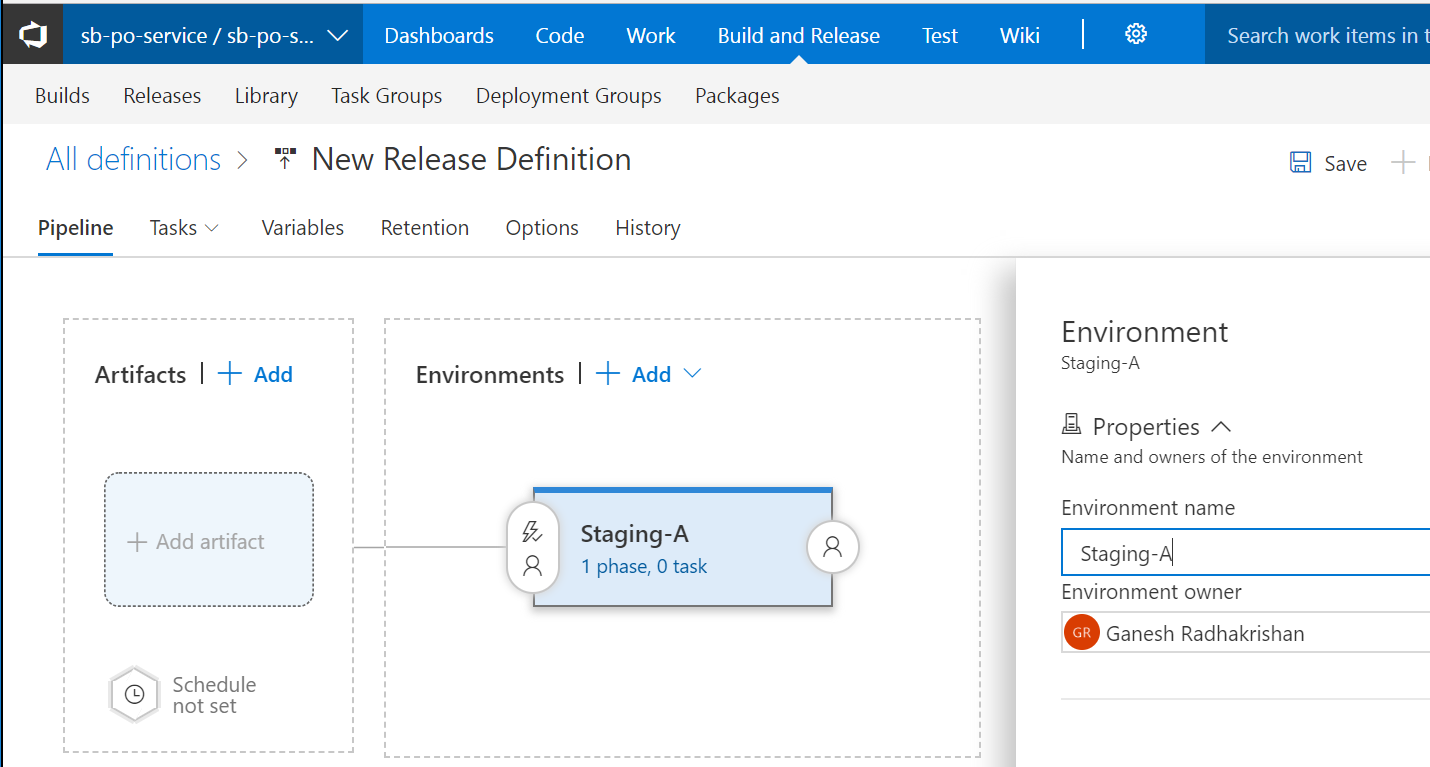
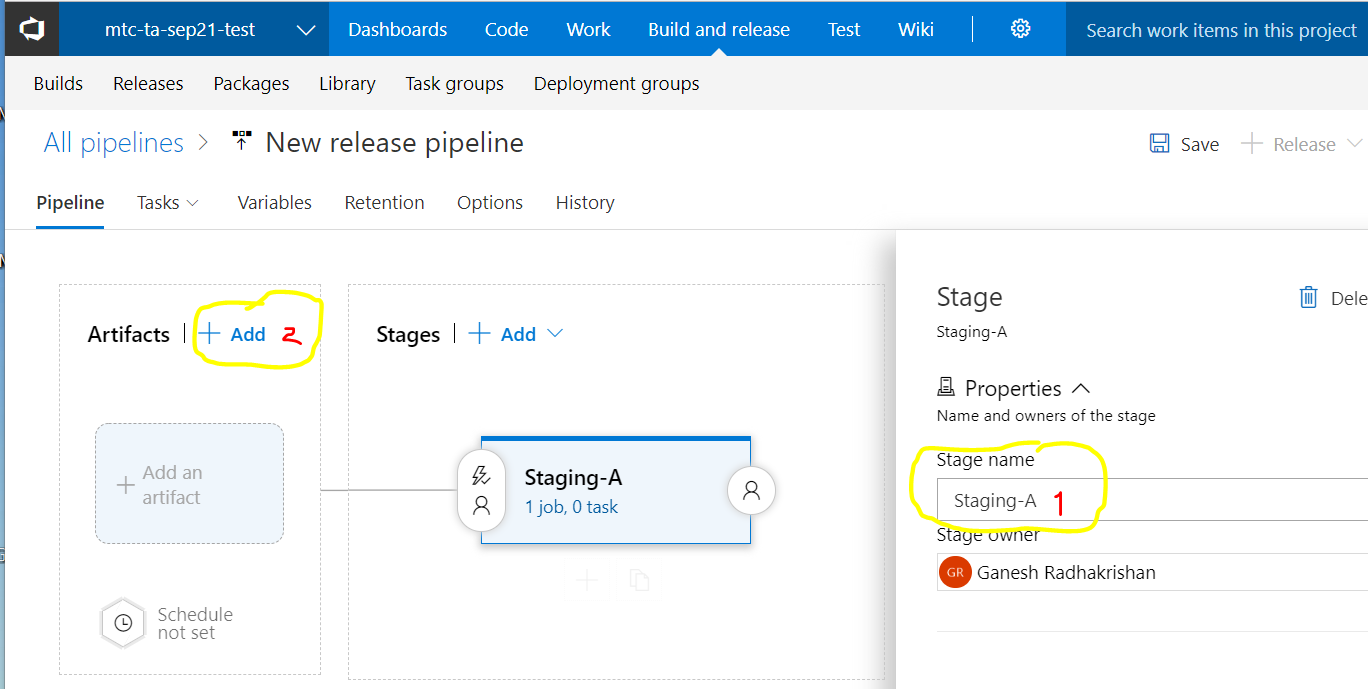
Updated Readme doc, images and app-update-deploy.yaml script

diff --git a/README.md b/README.md
@@ -141,7 +141,7 @@ Alternatively, if you prefer you can use SSH based authentication to connect to 
 
     In the next page, make sure to **copy and store** the PAT (token) into a file.  Keep in mind, you will not be able to retrieve this token again.  Incase you happen to lose or misplace the token, you will need to generate a new PAT and use it to reconfigure the VSTS build agent.  So save this PAT (token) to a file.
 
-9.  In the Linux VM command window, use the command below to start the VSTS build container.  Refer to the table below to set the build container parameter values correctly.
+9.  In the Linux VM terminal window, use the command below to start the VSTS build container.  Refer to the table below to set the build container parameter values correctly.
 
     Parameter | Value
     --------- | -----
@@ -506,91 +506,93 @@ Congrats!  You have just built and deployed a Java Springboot microservice on Az
 If you would like to learn how to implement **Continuous Deployment** in VSTS, continue with the next steps.  We will define a **Release Pipeline** in VSTS to perform automated application deployments next.
 
 ### E] Create a simple *Release Pipeline* in VSTS
-1.  Using a web browser, login to your VSTS account (if you haven't already) and select your project which you created in Step [C]. Click on *Build and Release* menu on the top panel and select *Releases*.  Next, click on the *+* icon on the *Releases* tab and select *Create release definition*.
+1.  Using a web browser, login to your VSTS account (if you haven't already) and select your project which you created in Step [C]. Click on *Build and Release* menu on the top panel and select *Releases*.  Next, click on *+ New pipeline*.
 
-![alt tag](./images/E-02.PNG)
+    ![alt tag](./images/E-02.PNG)
 
-In the *Select a Template* page, click on *Empty process*.  See screenshot below.
+    In the *Select a Template* page, click on *Empty job*.  See screenshot below.
 
-![alt tag](./images/E-03.PNG)
+    ![alt tag](./images/E-03.PNG)
 
-In the *Environment* page, specify *Staging-A* as the name for the environment.  Then click on *+Add* besides *Artifacts* (under *Pipeline* tab).
+    In the *Stage* page, specify *Staging-A* as the name for the environment.  Then click on *+Add* besides *Artifacts* (under *Pipeline* tab).
 
-![alt tag](./images/E-04.PNG)
+    ![alt tag](./images/E-04.PNG)
 
-In the *Add artifact* page, select *Build* for **Source type**, select your VSTS project from the **Project** drop down menu and select your *Build definition* in the drop down menu for **Source (Build definition)**.  Leave the remaining field values as is and click **Add**.  See screenshot below. 
+    In the *Add artifact* page, select *Build* for **Source type**, select your VSTS project from the **Project** drop down menu and select your *Build definition* in the drop down menu for **Source (Build definition)**.  Leave the remaining field values as is and click **Add**.  See screenshot below. 
 
-![alt tag](./images/E-05.PNG)
+    ![alt tag](./images/E-05.PNG)
 
-In the *Pipeline* tab, click on the *trigger* icon (highlighted in yellow) and enable **Continuous deployment trigger**.  See screenshot below.
+    In the *Pipeline* tab, click on the *trigger* icon (highlighted in yellow) and enable **Continuous deployment trigger**.  See screenshot below.
 
-![alt tag](./images/E-06.PNG)
+    ![alt tag](./images/E-06.PNG)
 
-Next, click on *1 phase, 0 task* in the **Environments** box under environment *Staging-A*.  Click on *Agent phase* under the *Tasks* tab and make sure **Agent queue** value is set to *Hosted VS2017*.  Leave the remaining field values as is.  See screenshot below.
+    Next, click on *1 job, 0 task* in the **Stages** box under environment *Staging-A*.  Click on *Agent job* under the *Tasks* tab and make sure **Agent queue** value is set to *Hosted VS2017*.  Leave the remaining field values as is.  See screenshots below.
 
-![alt tag](./images/E-07.PNG)
+    ![alt tag](./images/E-07.PNG)
 
-Recall that we had installed a **Tokenizer utility** extension in VSTS in Step [C].  We will now use this extension to update the container image *Tag value* in Kubernetes deployment manifest file *./k8s-scripts/app-update-deploy.yaml*.  Open/View the deployment manifest file in an editor (vi) and search for variable **__Build.BuildNumber__**.  When we re-run (execute) the *Build* pipeline, it will generate a new tag (Build number) for the *po-service* container image.  The *Tokenizer* extension will then substitute the latest tag value in the substitution variable.
+    ![alt tag](./images/E-071.PNG)
 
-Click on the ** + ** symbol beside **Agent phase** and search for text **Tokenize with** in the *Search* text box (besides **Add tasks**). Click on **Add**.  See screenshot below.
+    Recall that we had installed a **Tokenizer utility** extension in VSTS in Step [C].  We will now use this extension to update the container image *Tag value* in Kubernetes deployment manifest file *./k8s-scripts/app-update-deploy.yaml*.  Open/View the deployment manifest file in an editor (vi) and search for variable **__Build.BuildNumber__**.  When we re-run (execute) the *Build* pipeline, it will generate a new tag (Build number) for the *po-service* container image.  The *Tokenizer* extension will then substitute the latest tag value in the substitution variable.
 
-![alt tag](./images/E-08.PNG)
+    Click on the ** + ** symbol beside **Agent job** and search for text **Tokenize with** in the *Search* text box (besides **Add tasks**). Click on **Add**.  See screenshot below.
 
-Click on the **Tokenizer** task and click on the ellipsis (...) below field **Source filename**.  In the **Select File Or Folder** window, select the deployment manifest file from the respective folder as shown in the screenshots below. Click **OK**.
+    ![alt tag](./images/E-08.PNG)
 
-![alt tag](./images/E-09.PNG)
+    Click on the **Tokenizer** task and click on the ellipsis (...) besides field **Source filename**.  In the **Select File Or Folder** window, select the deployment manifest file from the respective folder as shown in the screenshots below. Click **OK**.
 
-![alt tag](./images/E-10.PNG)
+    ![alt tag](./images/E-09.PNG)
 
-Again, click on the ** + ** symbol beside **Agent phase** and search for text **Deploy to Kubernetes**, select this extension and click **Add*.  See screenshot below.
+    ![alt tag](./images/E-10.PNG)
 
-![alt tag](./images/E-11.PNG)
+    Again, click on the ** + ** symbol beside **Agent job** and search for text **Deploy to Kubernetes**, select this extension and click **Add*.  See screenshot below.
 
-Click on the **Deploy to Kubernetes** task on the left panel and fill out the details (numbered) as shown in the screenshot below.  This task will **apply** (update) the changes (image tag) to the kubernetes **Deployment** object on the Azure AKS cluster and do a **Rolling** deployment for the **po-service** microservice application.
+    ![alt tag](./images/E-11.PNG)
 
-If you do not see your Kubernetes Cluster in the drop down menu, you will need to add it.  You can select `+NEW` and then fill out the information.  You will need the API Address, which you can find if you view your Kubernetes Cluster within the portal.  It will look similar to `akslab-ae1a2677.hcp.centralus.azmk8s.io`  Be sure to add `https://` before it when pasting it into VSTS for `Server URL`.
+    Click on the **Deploy to Kubernetes** task on the left panel and fill out the details (numbered) as shown in the screenshot below.  This task will **apply** (update) the changes (image tag) to the kubernetes **Deployment** object on the Azure AKS cluster and do a **Rolling** deployment for the **po-service** microservice application.
 
-Additionally you will need your Kuberentes Configuration file from earlier.  Simply copy the contents in full to the `KubeConfig` section.
+    If you do not see your Kubernetes Cluster in the drop down menu, you will need to add it.  You can select `+NEW` and then fill out the information.  You will need the API Address, which you can find if you view your Kubernetes Cluster within the portal.  It will look similar to `akslab-ae1a2677.hcp.centralus.azmk8s.io`  Be sure to add `https://` before it when pasting it into VSTS for `Server URL`.
 
-![alt tag](./images/E-12.PNG)
+    Additionally you will need your Kuberentes Configuration file from earlier.  Simply copy the contents in full to the `KubeConfig` section.
 
-Expand the **Secrets** field panel and fill in the values as shown in the screenshot below.  Choose the correct value for **Azure subscription**.  See screenshot below.
+    ![alt tag](./images/E-12.PNG)
 
-![alt tag](./images/E-13.PNG)
+    Expand the **Secrets** field panel and fill in the values as shown in the screenshot below.  Choose the correct value for **Azure subscription**.  See screenshot below.
 
-Change the name of the release pipeline to **cd-po-service** and click **Save** on the top panel.  Provide a comment and click **OK**.
+    ![alt tag](./images/E-13.PNG)
 
-![alt tag](./images/E-14.PNG)
+    Change the name of the release pipeline to **cd-po-service** and click **Save** on the top panel.  Provide a comment and click **OK**.
 
-We have now finished defining the **Release pipeline**.  This pipeline will in turn be triggered whenever the build pipeline completes Ok.
+    ![alt tag](./images/E-14.PNG)
+
+    We have now finished defining the **Release pipeline**.  This pipeline will in turn be triggered whenever the build pipeline completes Ok.
 
 2.  Edit the build pipeline and click on the **Triggers** tab.  See screenshot below.
 
-![alt tag](./images/E-15.PNG)
+    ![alt tag](./images/E-15.PNG)
 
-Click the checkbox for both **Enable continuous integration** and **Batch changes while a build is in progress**.  Leave other fields as is.  Click on **Save & queue** menu and select the **Save** option.
+    Click the checkbox for both **Enable continuous integration** and **Batch changes while a build is in progress**.  Leave other fields as is.  Click on **Save & queue** menu and select the **Save** option.
 
-![alt tag](./images/E-16.PNG)
+    ![alt tag](./images/E-16.PNG)
 
 3.  Modify the microservice code to calculate **Discount amount** and **Order total** for purchase orders.  These values will be returned in the JSON response for the **GET** API (operation).  
 
-Open a web browser tab and navigate to this project (your Fork) on GitHub.  Go to the **model** sub directory within **src** directory and click on **PurchaseOrder.java** file.  See screenshot below.
+    Open a web browser tab and navigate to this project (your Fork) on GitHub.  Go to the **model** sub directory within **src** directory and click on **PurchaseOrder.java** file.  See screenshot below.
 
-![alt tag](./images/E-17.PNG)
+    ![alt tag](./images/E-17.PNG)
 
-Click on the pencil (Edit) icon on the top right of the code view panel (see below) to edit this file.
+    Click on the pencil (Edit) icon on the top right of the code view panel (see below) to edit this file.
 
-![alt tag](./images/E-18.PNG)
+    ![alt tag](./images/E-18.PNG)
 
-Uncomment lines 100 thru 108 (highlighted in yellow).
+    Uncomment lines 100 thru 108 (highlighted in yellow).
 
-![alt tag](./images/E-19.PNG)
+    ![alt tag](./images/E-19.PNG)
 
-Provide a comment and commit (save) the file.  The git commit will trigger a new build (**Continuous Integration**) for the **po-service** microservice in VSTS.  Upon successful completion of the build process, the updated container images will be pushed into the ACR and the release pipeline (**Continuous Deployment**) will be executed.   As part of the CD process, the Kubernetes deployment object for the **po-service** microservice will be updated with the newly built container image.  This action will trigger a **Rolling** deployment of **po-service** microservice in AKS.  As a result, the **po-service** containers (*Pods*) from the old deployment (version 1.0) will be deleted and a new deployment (version 2.0) will be instantiated in AKS.  The new deployment will use the latest container image from the ACR and spin up new containers (*Pods*).  During this deployment process, users of the **po-service** microservice will not experience any downtime as AKS will do a rolling deployment of containers.
+    Provide a comment and commit (save) the file.  The git commit will trigger a new build (**Continuous Integration**) for the **po-service** microservice in VSTS.  Upon successful completion of the build process, the updated container images will be pushed into the ACR and the release pipeline (**Continuous Deployment**) will be executed.   As part of the CD process, the Kubernetes deployment object for the **po-service** microservice will be updated with the newly built container image.  This action will trigger a **Rolling** deployment of **po-service** microservice in AKS.  As a result, the **po-service** containers (*Pods*) from the old deployment (version 1.0) will be deleted and a new deployment (version 2.0) will be instantiated in AKS.  The new deployment will use the latest container image from the ACR and spin up new containers (*Pods*).  During this deployment process, users of the **po-service** microservice will not experience any downtime as AKS will do a rolling deployment of containers.
 
 4.  Switch to a browser window and test the **po-Service** REST API.  Verify that the **po-service** API is returning two additional fields (*discountAmount* and *orderTotal*) in the JSON response.
 
-Congrats!  You have successfully used DevOps to automate the build and deployment of a containerized microservice application on Kubernetes.  
+    Congrats!  You have successfully used DevOps to automate the build and deployment of a containerized microservice application on Kubernetes.  
 
 In this project, we experienced how DevOps, Microservices and Containers can be used to build next generation applications.  These three technologies are changing the way we develop and deploy software applications and are at the forefront of fueling digital transformation in enterprises today!
 
